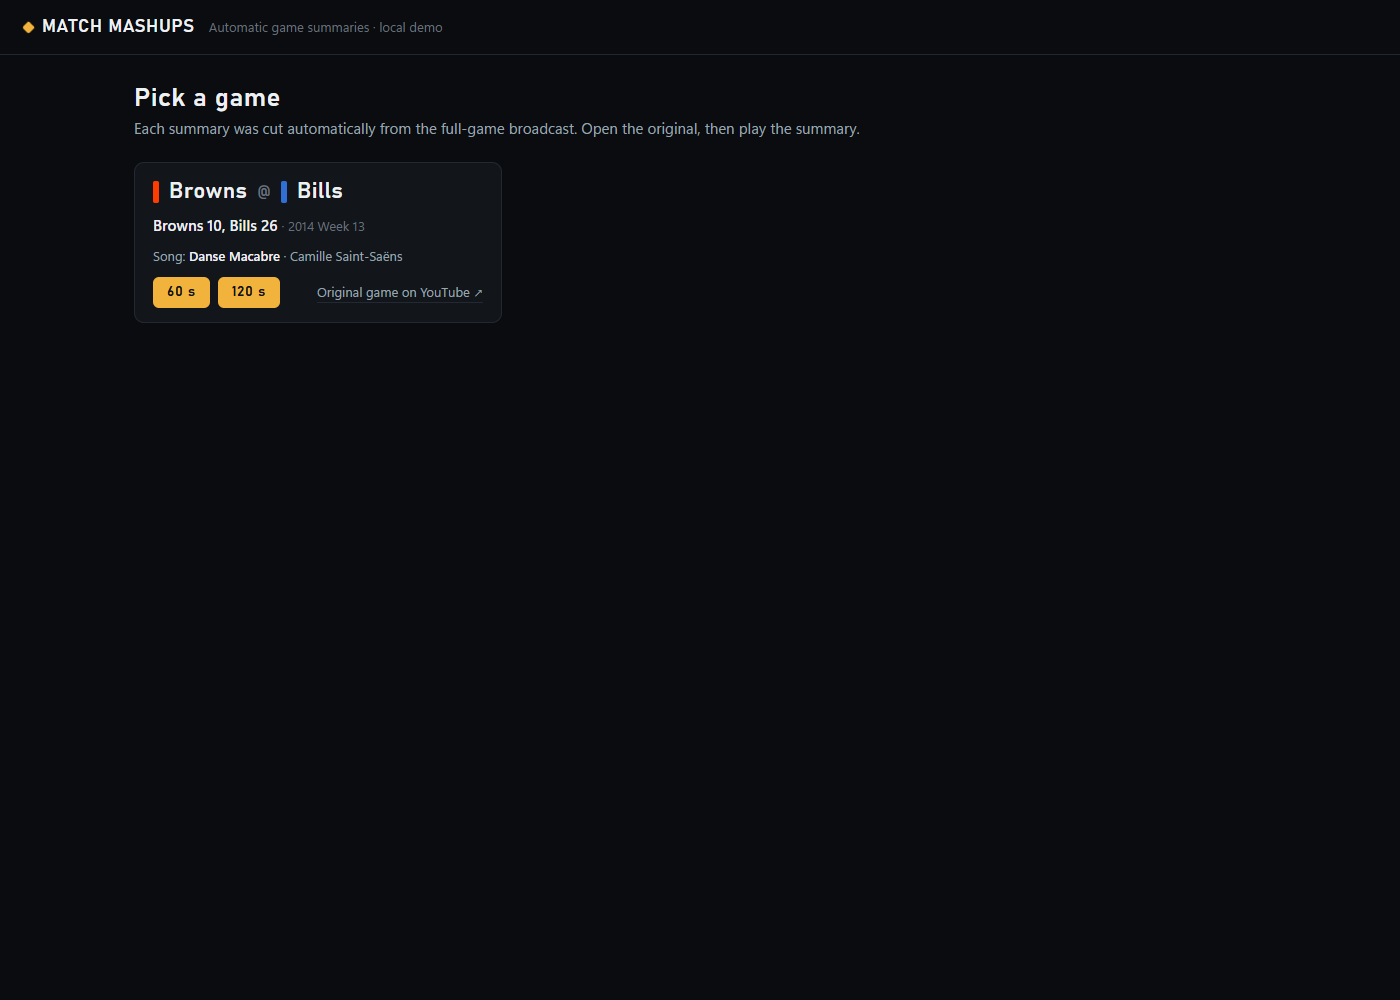
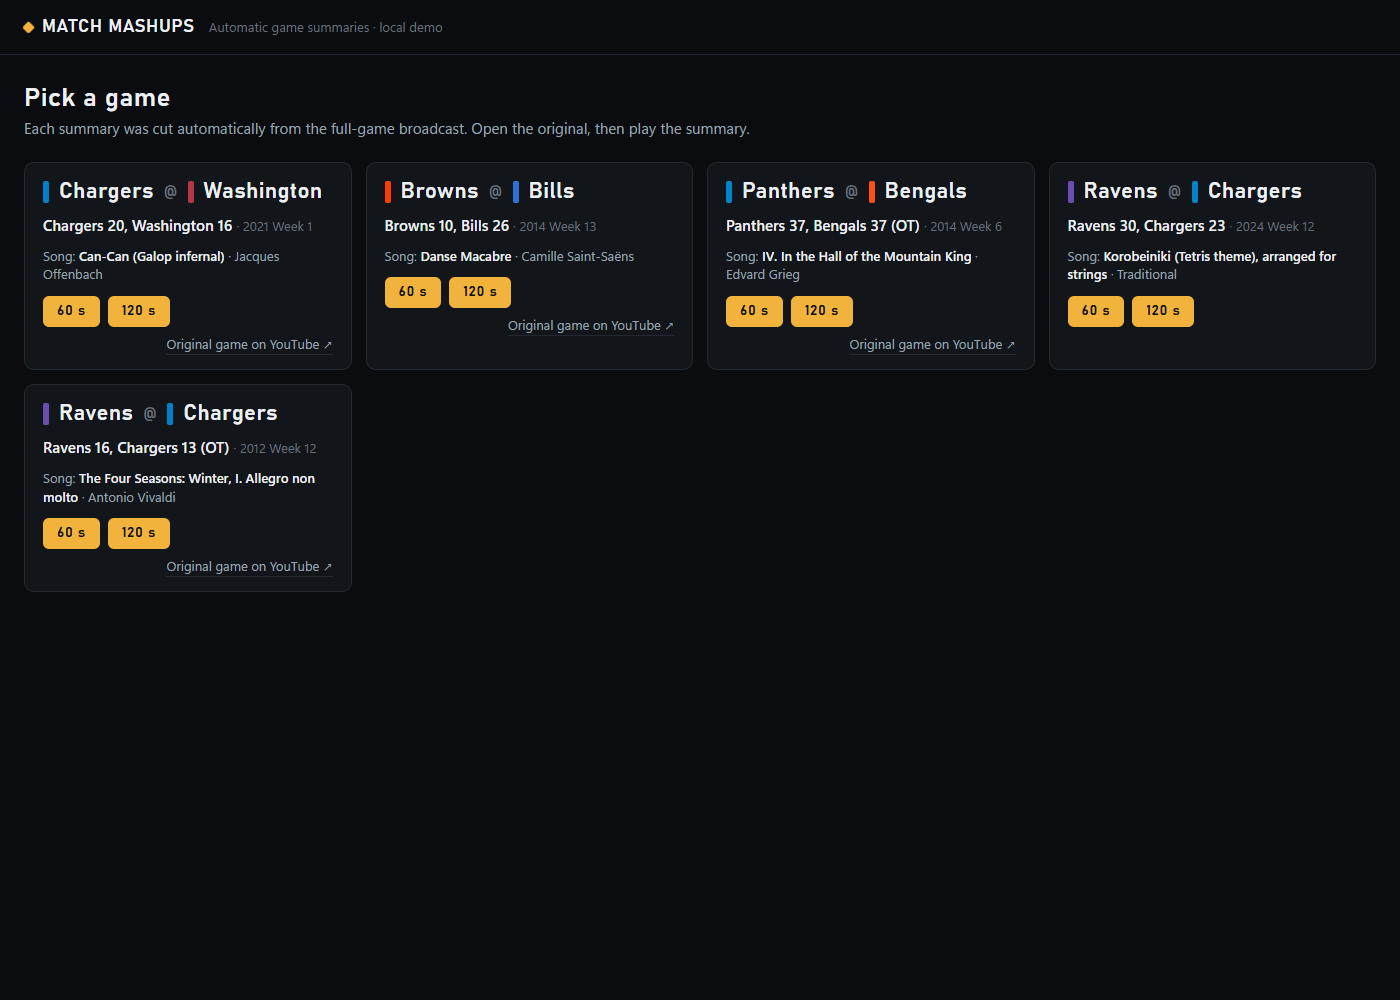
4 more NFL games (Mountain King, Can-Can, Winter, Tetris): ESPN 2024 / CBS 2021 bug styles, highlights mode, local classicals.de songs, player fixes

diff --git a/player/player.js b/player/player.js
@@ -82,6 +82,7 @@
     $("eLink").href = tl.youtube || "#"; $("eLink").textContent = tl.youtube || "";
     $("credit").innerHTML = `♪ <b>${esc(tl.song.title)}</b><br>${esc(tl.song.credit)}`;
     placeCredit(tl);
+    placeLower(tl);
     $("vizAway").textContent = tl.teams.away.abbr;
     $("vizHome").textContent = tl.teams.home.abbr;
     $("fillAway").style.background = tl.teams.away.colour;
@@ -105,6 +106,18 @@
     const room = 100 - ((bx + bw) / W) * 100 - 1.4 - 1.2;       // right margin + a gap to the bug
     if (room >= 15) el.style.maxWidth = `${Math.min(23, room).toFixed(1)}%`;
     else el.style.top = `${(((by + bh) / H) * 100 + 1.5).toFixed(1)}%`;
+  }
+
+  /* the win-probability bar and the captions sit low; when the broadcast's own scoreboard is low too (CBS 2021,
+     ESPN 2024), they move up to sit just above it */
+  function placeLower(tl) {
+    let base = 11.5;
+    if (tl.bug) {
+      const [, by, , bh] = tl.bug, H = tl.video_size[1];
+      if ((by + bh) / H > 0.6) base = Math.max(base, (1 - by / H) * 100 + 1.5);
+    }
+    $("vizA").style.bottom = `${base.toFixed(1)}%`;
+    $("cap").style.bottom = `${(base + 5.5).toFixed(1)}%`;
   }
 
   function otherLength() {
@@ -185,7 +198,8 @@
 
   /* S: crossfade game sound <-> song */
   function applyVolumes() {
-    game.volume = st.vol.game * st.duck; song.volume = st.vol.song * st.duck;
+    const clamp = (v) => Math.max(0, Math.min(1, v));
+    game.volume = clamp(st.vol.game * st.duck); song.volume = clamp(st.vol.song * st.duck);
   }
   /* O: while a voice-over line is spoken, the song (or the game sound) is turned down */
   let lastT = 0;

diff --git a/scripts/library.py b/scripts/library.py
@@ -23,6 +23,10 @@ import sister
 from common import ROOT
 
 CACHE = ROOT / "work" / "_library"
+LOCAL = {"cancan": ("Can-Can (Galop infernal)", "Jacques Offenbach", "*Can-Can*.mp3"),
+         "tetris": ("Korobeiniki (Tetris theme), arranged for strings", "Traditional", "*Tetris*.mp3"),
+         "winter": ("The Four Seasons: Winter, I. Allegro non molto", "Antonio Vivaldi", "*Vivaldi*.mp3"),
+         "william_tell": ("William Tell Overture: Finale, arranged for strings", "Gioachino Rossini", "*William Tell*.mp3")}
 STEP = 2            # seconds between candidate window starts
 SNAP_START = 2.0    # a window's start moves to the quietest nearby beat within this many seconds
 SNAP_END = 0.5      # its end to the nearest beat within this (so the length stays L +- 0.5 s)
@@ -53,6 +57,13 @@ def tracks():
                     "performer": d["performer"], "licence": d["licence"], "excerpt": d.get("excerpt"),
                     "credit": f"{d['piece']} ({d['composer']}), {d['performer']}, {d['licence']}, via www.classicals.de",
                     "file": str(sister.MATCH_REPO / "site" / d["file"])})
+    # local recordings Atharva downloaded from classicals.de (inputs/_songs/, gitignored): CC BY-NC 4.0, internal use
+    for key, (title, artist, pattern) in LOCAL.items():
+        hits = sorted((ROOT / "inputs" / "_songs").glob(pattern))
+        if hits:
+            out.append({"id": "local:" + key, "kind": "demo", "title": title, "artist": artist, "performer": "classicals.de",
+                        "licence": "CC BY-NC 4.0", "credit": f"{title} ({artist}), via www.classicals.de, CC BY-NC 4.0",
+                        "file": str(hits[0])})
     eng = _engine()
     if eng:
         with open(eng["root"] / "library/tracks.csv", encoding="utf-8") as f:

diff --git a/scripts/tag_shots.py b/scripts/tag_shots.py
@@ -109,6 +109,15 @@ def extract_crops(job, part, box):
 #   cbs2014 (default)  one line '3RD & 6 | CLE 3 | BUF 0 | 2ND 13:02': cut at the quiet column before the clock
 #   fox2016            a small stacked box: team names / scores (away left, home right) / 'quarter clock' / 'down'
 BUG_STYLES = {
+    # CBS 2021: bottom bar 'CBS | LAC 10 | WSH 6 | 2ND 8:57 | 40 | 2ND & 10' (team codes differ from nflverse: WSH)
+    "cbs2021": {"stacked": True,
+                "fields": [[0.240, 0.0, 0.300, 1.0], [0.478, 0.0, 0.535, 1.0], [0.540, 0.0, 0.720, 1.0], [0.800, 0.0, 0.980, 1.0]]},
+    # ESPN 2024 (MNF): one bottom bar, team logos instead of names: '[logo] 7-4  14 | 13  7-3 [logo] | 3RD 13:35 | 40 | 3RD & 9'
+    "espn2024": {"stacked": True,
+                 "fields": [[0.012, 0.0, 0.084, 1.0],     # away score
+                            [0.114, 0.0, 0.199, 1.0],     # home score
+                            [0.464, 0.0, 0.657, 1.0],     # quarter + clock
+                            [0.753, 0.0, 0.994, 1.0]]},   # down & distance
     "fox2016": {"stacked": True,
                 "fields": [[0.0, 0.24, 0.5, 0.47],      # away score
                            [0.5, 0.24, 1.0, 0.47],      # home score

diff --git a/scripts/game_audio.py b/scripts/game_audio.py
@@ -91,7 +91,10 @@ class Pauses:
 
 def replay_map(job):
     """reel time -> replay time, per section."""
-    m = json.loads((job.inp / "replay" / "reel.json").read_text(encoding="utf-8"))
+    f = job.inp / "replay" / "reel.json"
+    if not f.exists():                         # footage is a highlights video: its own sound, 1:1
+        return [(0.0, 1e9, 0.0)]
+    m = json.loads(f.read_text(encoding="utf-8"))
     return [(x["reel_in"], x["reel_out"], x.get("replay_true_in", x["replay_in"])) for x in m]
 
 
@@ -117,6 +120,8 @@ def runs(edl, secs):
 
 def build(job, edl, L, out_path):
     src = job.inp / "replay" / "full_audio.m4a"
+    if not src.exists():                       # highlights video: the sound is in part1.mp4
+        src = job.parts[0]
     secs = replay_map(job)
     rs = runs(edl, secs)
     total = edl[-1]["song_out"]

diff --git a/scripts/timeline.py b/scripts/timeline.py
@@ -59,7 +59,8 @@ def build(job):
                   for side in ("home", "away")},
         "song": {"title": t["title"], "artist": t["artist"], "credit": job.cfg.get("song_credit_full", t["credit"])},
         "youtube": job.cfg.get("replay_url"),
-        "bug": [2 * v for v in job.cfg["replay_box_360"]] if "replay_box_360" in job.cfg else None,
+        "bug": (json.loads(job.wpath("box.json").read_text())["part1.mp4"]["box"] if job.wpath("box.json").exists()
+                else [2 * v for v in job.cfg["replay_box_360"]] if "replay_box_360" in job.cfg else None),
         "video_size": [1280, 720],
         "samples": [[int(steps[i]), round(float(wv[i]), 4), round(float(tv[i]), 4)] for i in range(n)],
         "captions": json.loads(cap_f.read_text(encoding="utf-8")) if cap_f.exists() else [],

diff --git a/scripts/check_player.py b/scripts/check_player.py
@@ -41,7 +41,7 @@ GEOM = """() => {
   const tl = window.__mm.tl, sx = st.width / tl.video_size[0], sy = st.height / tl.video_size[1];
   const r = (id) => { const e = document.getElementById(id), b = e.getBoundingClientRect();
     const cs = getComputedStyle(e); return {x: b.left - st.left, y: b.top - st.top, w: b.width, h: b.height, on: parseFloat(cs.opacity) > 0.05}; };
-  const [bx, by, bw, bh] = tl.bug;
+  const [bx, by, bw, bh] = tl.bug || [0, 0, 0, 0];
   return {bug: {x: bx * sx, y: by * sy, w: bw * sx, h: bh * sy}, vizA: r('vizA'), cap: r('cap'), credit: r('credit')};
 }"""
 
